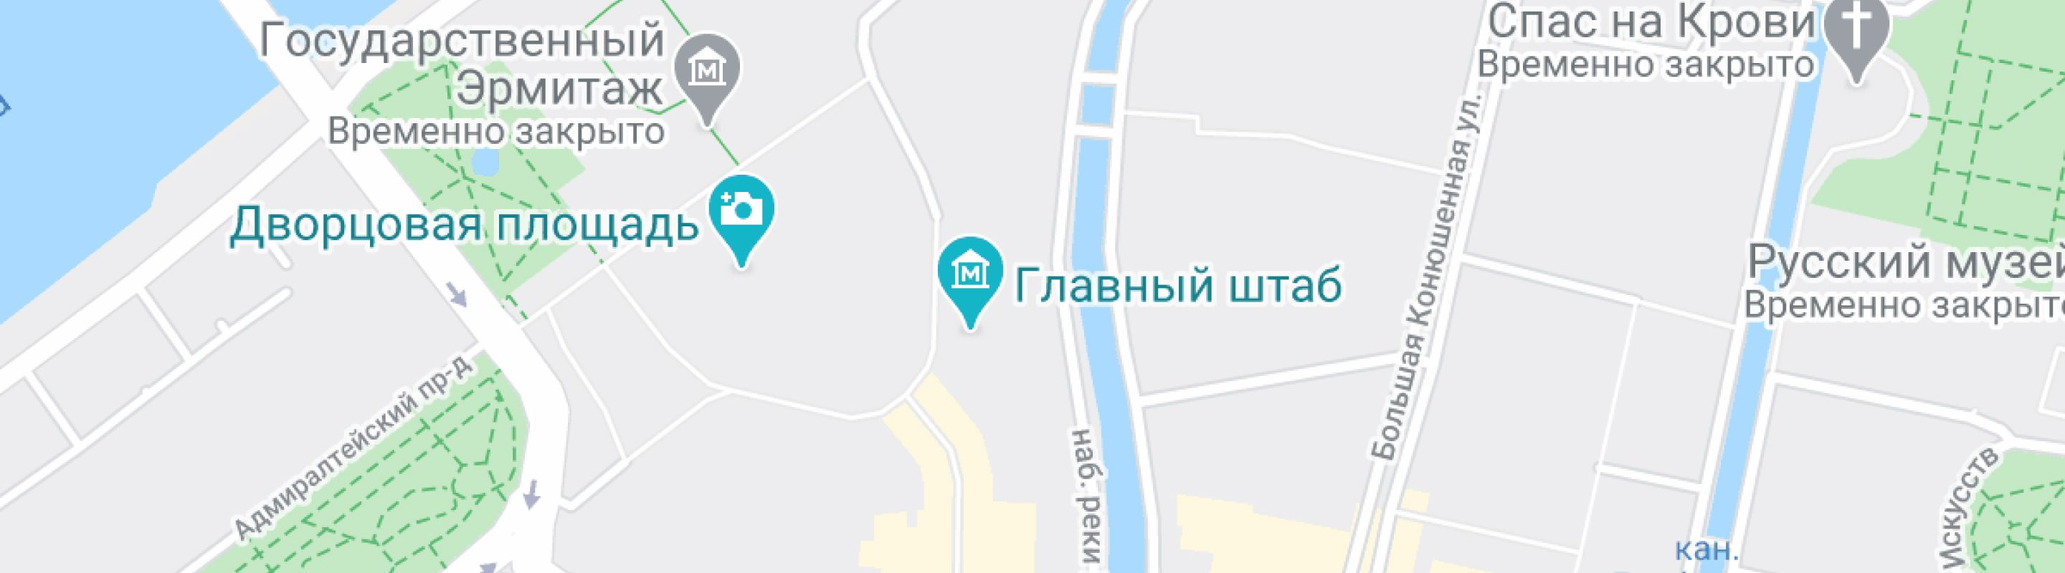
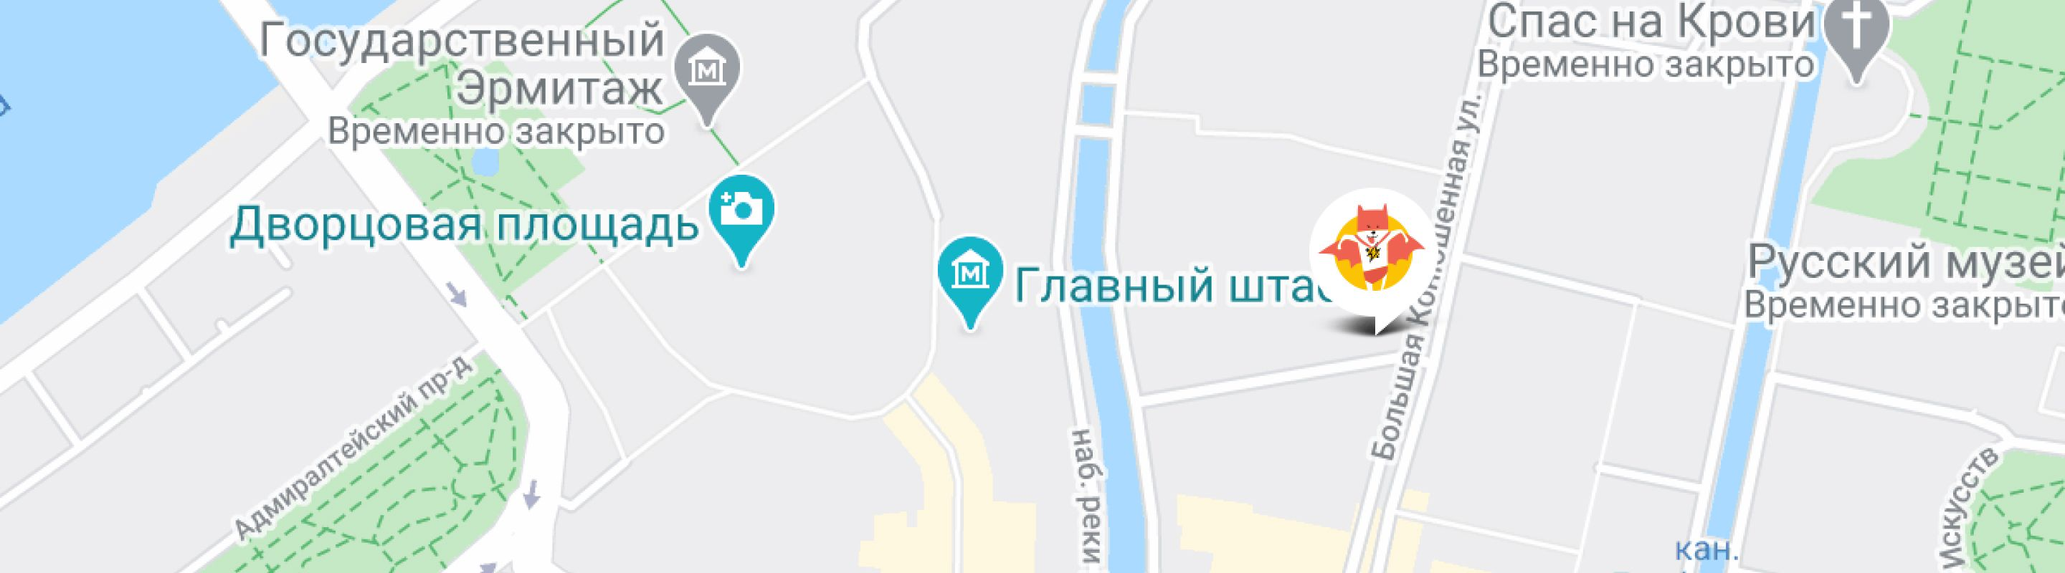
Deploying to gh-pages from @ TatyanaTatarnikova/2493599-cat-energy-32@7d74e67b9639f46f2b732bb1cdabe0afc9696cc2 🚀

Changed region(s): [[0.625, 0.3438, 0.7188, 0.5938]]

diff --git a/6/catalog.html b/6/catalog.html
@@ -1,1 +1,1 @@
-<!DOCTYPE html><html class="page" lang="ru"><head><meta charset="UTF-8"><title>Cat Energy каталог</title><meta name="viewport" content="width=device-width,initial-scale=1"><link rel="icon" href="favicon.ico" sizes="32x32"><link rel="icon" href="favicons/icon.svg" type="image/svg+xml" sizes="32x32"><link rel="apple-touch-icon" href="favicons/180.png" sizes="180x180"><link rel="manifest" href="manifest.webmanifest"><link rel="stylesheet" href="styles/styles.css"><script src="scripts/index.js" defer="defer"></script></head><body class="page__body"><header class="main-header"><a class="main-header__logo logo" href="#"><img class="logo__image trademark" src="#" width="33" height="38" alt="Товарный знак"> <img class="logo__image logotype" src="#" width="101" height="18" alt="Логотип Cat Energy"></a><nav class="main-header__nav main-nav"><button class="main-nav__burger-menu" type="button"><span class="visually-hidden">Открыть меню</span></button><ul class="main-nav__list site-list"><li class="site-list__item"><a class="site-list__link" href="index.html">Главная</a></li><li class="site-list__item"><a class="site-list__link site-list__link--current" href="#">Каталог продукции</a></li><li class="site-list__item"><a class="site-list__link" href="#">Подбор программы</a></li></ul></nav></header><main class="main-container"><h1 class="title">Каталог продукции</h1><section class="catalog"><h2 class="visually-hidden">Список товаров нашего магазина</h2><ul class="catalog__list"><li class="product"><a class="product__link" href="#" tabindex="-1"><picture><source media="(min-width: 1200px)" width="161" height="172" type="image/png" srcset="images/catalog-1-tablet@1x.png, images/catalog-1-tablet@2x.png 2x"><source media="(min-width: 768px)" width="161" height="172" type="image/png" srcset="images/catalog-1-tablet@1x.png, images/catalog-1-tablet@2x.png 2x"><img class="product__image" src="images/catalog-1-mobile@1x.png" srcset="images/catalog-1-mobile@2x.png 2x" width="68" height="86" alt="Изображение товара 1"></picture></a><a class="product__link" href="#"><h2 class="product__title">Cat Energy PRO 500 г</h2></a><dl class="product__about description"><div class="description__row"><dt class="description__type">Масса</dt><dd class="description__value">500 г</dd></div><div class="description__row"><dt class="description__type">Вкус</dt><dd class="description__value">Курица</dd></div><div class="description__row"><dt class="description__type">Цена</dt><dd class="description__value">700 ₽</dd></div></dl><a class="product__link button" href="#">Заказать</a></li><li class="product"><a class="product__link" href="#" tabindex="-1"><picture><source media="(min-width: 1200px)" width="172" height="196" type="image/png" srcset="images/catalog-2-desktop@1x.png, images/catalog-2-desktop@2x.png 2x"><source media="(min-width: 768px)" width="168" height="206" type="image/png" srcset="images/catalog-2-tablet@1x.png, images/catalog-2-tablet@2x.png 2x"><img class="product__image" src="images/catalog-2-mobile@1x.png" srcset="images/catalog-2-mobile@2x.png 2x" width="84" height="100" alt="Изображение товара 2"></picture></a><a class="product__link" href="#"><h2 class="product__title">Cat Energy PRO 1000 г</h2></a><dl class="product__about description"><div class="description__row"><dt class="description__type">Масса</dt><dd class="description__value">1000 г</dd></div><div class="description__row"><dt class="description__type">Вкус</dt><dd class="description__value">Курица</dd></div><div class="description__row"><dt class="description__type">Цена</dt><dd class="description__value">1000 ₽</dd></div></dl><a class="product__link button" href="#">Заказать</a></li><li class="product"><a class="product__link" href="#" tabindex="-1"><picture><source media="(min-width: 1200px)" width="163" height="174" type="image/png" srcset="images/catalog-3-tablet@1x.png, images/catalog-3-tablet@2x.png 2x"><source media="(min-width: 768px)" width="163" height="174" type="image/png" srcset="images/catalog-3-tablet@1x.png, images/catalog-3-tablet@2x.png 2x"><img class="product__image" src="images/catalog-3-mobile@1x.png" srcset="images/catalog-3-mobile@2x.png 2x" width="68" height="78" alt="Изображение товара 3"></picture></a><a class="product__link" href="#"><h2 class="product__title">Cat Energy PRO 500 г</h2></a><dl class="product__about description"><div class="description__row"><dt class="description__type">Масса</dt><dd class="description__value">500 г</dd></div><div class="description__row"><dt class="description__type">Вкус</dt><dd class="description__value">Рыба</dd></div><div class="description__row"><dt class="description__type">Цена</dt><dd class="description__value">700 ₽</dd></div></dl><a class="product__link button" href="#">Заказать</a></li><li class="product"><a class="product__link" href="#" tabindex="-1"><picture><source media="(min-width: 1200px)" width="172" height="196" type="image/png" srcset="images/catalog-4-desktop@1x.png, images/catalog-4-desktop@2x.png 2x"><source media="(min-width: 768px)" width="168" height="200" type="image/png" srcset="images/catalog-4-tablet@1x.png, images/catalog-4-tablet@2x.png 2x"><img class="product__image" src="images/catalog-4-mobile@1x.png" srcset="images/catalog-4-mobile@2x.png 2x" width="84" height="100" alt="Изображение товара 4"></picture></a><a class="product__link" href="#"><h2 class="product__title">Cat Energy PRO 1000 г</h2></a><dl class="product__about description"><div class="description__row"><dt class="description__type">Масса</dt><dd class="description__value">1000 г</dd></div><div class="description__row"><dt class="description__type">Вкус</dt><dd class="description__value">Рыба</dd></div><div class="description__row"><dt class="description__type">Цена</dt><dd class="description__value">1000 ₽</dd></div></dl><a class="product__link button" href="#">Заказать</a></li><li class="product"><a class="product__link" href="#" tabindex="-1"><picture><source media="(min-width: 1200px)" width="161" height="172" type="image/png" srcset="images/catalog-5-tablet@1x.png, images/catalog-5-tablet@2x.png 2x"><source media="(min-width: 768px)" width="161" height="172" type="image/png" srcset="images/catalog-5-tablet@1x.png, images/catalog-5-tablet@2x.png 2x"><img class="product__image" src="images/catalog-5-mobile@1x.png" srcset="images/catalog-5-mobile@2x.png 2x" width="68" height="78" alt="Изображение товара 5"></picture></a><a class="product__link" href="#"><h2 class="product__title">Cat Energy SLIM 500 г</h2></a><dl class="product__about description"><div class="description__row"><dt class="description__type">Масса</dt><dd class="description__value">500 г</dd></div><div class="description__row"><dt class="description__type">Вкус</dt><dd class="description__value">Гречка</dd></div><div class="description__row"><dt class="description__type">Цена</dt><dd class="description__value">400 ₽</dd></div></dl><a class="product__link button" href="#">Заказать</a></li><li class="product"><a class="product__link" href="#" tabindex="-1"><picture><source media="(min-width: 1200px)" width="172" height="196" type="image/png" srcset="images/catalog-6-desktop@1x.png, images/catalog-6-desktop@2x.png 2x"><source media="(min-width: 768px)" width="168" height="200" type="image/png" srcset="images/catalog-6-tablet@1x.png, images/catalog-6-tablet@2x.png 2x"><img class="product__image" src="images/catalog-6-mobile@1x.png" srcset="images/catalog-6-mobile@2x.png 2x" width="84" height="100" alt="Изображение товара 6"></picture></a><a class="product__link" href="#"><h2 class="product__title">Cat Energy SLIM 1000 г</h2></a><dl class="product__about description"><div class="description__row"><dt class="description__type">Масса</dt><dd class="description__value">1000 г</dd></div><div class="description__row"><dt class="description__type">Вкус</dt><dd class="description__value">Гречка</dd></div><div class="description__row"><dt class="description__type">Цена</dt><dd class="description__value">700 ₽</dd></div></dl><a class="product__link button" href="#">Заказать</a></li><li class="product"><a class="product__link" href="#" tabindex="-1"><picture><source media="(min-width: 1200px)" width="163" height="174" type="image/png" srcset="images/catalog-7-tablet@1x.png, images/catalog-7-tablet@2x.png 2x"><source media="(min-width: 768px)" width="163" height="174" type="image/png" srcset="images/catalog-7-tablet@1x.png, images/catalog-7-tablet@2x.png 2x"><img class="product__image" src="images/catalog-7-mobile@1x.png" srcset="images/catalog-7-mobile@2x.png 2x" width="72" height="84" alt="Изображение товара 7"></picture></a><a class="product__link" href="#"><h2 class="product__title">Cat Energy SLIM 500 г</h2></a><dl class="product__about description"><div class="description__row"><dt class="description__type">Масса</dt><dd class="description__value">500 г</dd></div><div class="description__row"><dt class="description__type">Вкус</dt><dd class="description__value">Рис</dd></div><div class="description__row"><dt class="description__type">Цена</dt><dd class="description__value">500 ₽</dd></div></dl><a class="product__link button" href="#">Заказать</a></li><li class="product"><a class="product__link" href="#"><span class="visually-hidden">Показать больше товаров</span>></a><h2 class="product__title">Показать еще 100500 товаров</h2><p class="product__description">На самом деле вкусов гораздо больше!</p><a class="product__button button" href="#">Показать все</a></li></ul></section><section class="additional"><h2 class="additional__title">Дополнительные товары</h2><ul class="additional__list"><li class="more-products"><h3 class="more-products__title">Сахарозаменитель</h3><dl class="more-products_info info"><dt class="info__size">1 упаковка (100 г)</dt><dd class="info__price">200 ₽</dd></dl><a class="more-products__link button" href="#">Заказать</a></li><li class="more-products"><h3 class="more-products__title">Питьевая вода</h3><dl class="more-products_info info"><dt class="info__size">5 литров</dt><dd class="info__price">50 ₽</dd></dl><a class="more-products__link button" href="#">Заказать</a></li><li class="more-products"><h3 class="more-products__title">Молоко</h3><dl class="more-products_info info"><dt class="info__size">1 литр</dt><dd class="info__price">100 ₽</dd></dl><a class="more-products__link button" href="#">Заказать</a></li><li class="more-products"><h3 class="more-products__title">Витамины</h3><dl class="more-products_info info"><dt class="info__size">1 упаковка (30 г)</dt><dd class="info__price">300 ₽</dd></dl><a class="more-products__link button" href="#">Заказать</a></li></ul><aside class="annonce"><h2 class="annonce__title">Закажите все и получите чехол для кота в подарок!</h2></aside></section><section class="promo"><h2 class="promo__title">Акции и новинки</h2><p class="promo__description">Подпишитесь на наши новости и не пропустите ни одного предложения!</p><form class="promo__subscribe subscribe" action="https://echo.htmlacademy.ru/" method="post"><label class="visually-hidden" for="subscribe-form">Введите ваш email</label> <input class="subscribe__field" type="email" name="subscribe-form" id="subscribe-form" placeholder="кuklachev@gmail.com" required> <button class="subscribe__button button" type="submit">Подписаться</button></form></section><section class="contacts"><div class="contacts__card contact-us"><h2 class="contact-us__title">Приглашаем к сотрудничеству дилеров!</h2><address class="contact-us__adress">ул. Большая Конюшенная, д. 19/8 Санкт-Петербург</address></div><img class="contacts__map map" src="#" width="320" height="362" alt="Наша локация на карте"></section></main><footer class="footer"><a class="footer__logo logo" href="#"><img class="logo__image logotype" src="#" width="101" height="18" alt="Логотип Cat Energy"></a><ul class="footer__social social-list"><li class="social-list__item"><a class="social-list__link" href="#"><span class="visually-hidden">VK</span></a></li><li class="social-list__item"><a class="social-list__link" href="#"><span class="visually-hidden">Youtube</span></a></li><li class="social-list__item"><a class="social-list__link" href="#"><span class="visually-hidden">Telegram</span></a></li></ul><a class="footer__author academy-logo" href="https://htmlacademy.ru/intensive/adaptive">HTML Academy</a></footer></body></html>
+<!DOCTYPE html><html class="page" lang="ru"><head><meta charset="UTF-8"><title>Cat Energy каталог</title><meta name="viewport" content="width=device-width,initial-scale=1"><link rel="icon" href="favicon.ico" sizes="32x32"><link rel="icon" href="favicons/icon.svg" type="image/svg+xml" sizes="32x32"><link rel="apple-touch-icon" href="favicons/180.png" sizes="180x180"><link rel="manifest" href="manifest.webmanifest"><link rel="stylesheet" href="styles/styles.css"><script src="scripts/index.js" defer="defer"></script></head><body class="page__body"><header class="main-header"><a class="main-header__logo logo" href="#"><img class="logo__image logo-icon" src="#" width="33" height="38" alt="Товарный знак"> <img class="logo__image logo-text" src="#" width="101" height="18" alt="Логотип Cat Energy"></a><nav class="main-header__nav main-nav"><button class="main-nav__burger-menu" type="button"><span class="visually-hidden">Открыть меню</span></button><ul class="main-nav__list site-list"><li class="site-list__item"><a class="site-list__link" href="index.html">Главная</a></li><li class="site-list__item"><a class="site-list__link site-list__link--current" href="#">Каталог продукции</a></li><li class="site-list__item"><a class="site-list__link" href="#">Подбор программы</a></li></ul></nav></header><main class="main-container"><h1 class="title">Каталог продукции</h1><section class="catalog"><h2 class="visually-hidden">Список товаров нашего магазина</h2><ul class="catalog__list"><li class="product"><a class="product__link" href="#" tabindex="-1"><picture><source media="(min-width: 768px)" width="161" height="172" type="image/png" srcset="images/catalog-1-tablet@1x.png, images/catalog-1-tablet@2x.png 2x"><img class="product__image" src="images/catalog-1-mobile@1x.png" srcset="images/catalog-1-mobile@2x.png 2x" width="68" height="86" alt="Изображение товара 1"></picture></a><a class="product__link" href="#"><h2 class="product__title">Cat Energy PRO 500 г</h2></a><dl class="product__about description"><div class="description__row"><dt class="description__type">Масса</dt><dd class="description__value">500 г</dd></div><div class="description__row"><dt class="description__type">Вкус</dt><dd class="description__value">Курица</dd></div><div class="description__row"><dt class="description__type">Цена</dt><dd class="description__value">700 ₽</dd></div></dl><a class="product__link button" href="#">Заказать</a></li><li class="product"><a class="product__link" href="#" tabindex="-1"><picture><source media="(min-width: 1440px)" width="172" height="196" type="image/png" srcset="images/catalog-2-desktop@1x.png, images/catalog-2-desktop@2x.png 2x"><source media="(min-width: 768px)" width="168" height="206" type="image/png" srcset="images/catalog-2-tablet@1x.png, images/catalog-2-tablet@2x.png 2x"><img class="product__image" src="images/catalog-2-mobile@1x.png" srcset="images/catalog-2-mobile@2x.png 2x" width="84" height="100" alt="Изображение товара 2"></picture></a><a class="product__link" href="#"><h2 class="product__title">Cat Energy PRO 1000 г</h2></a><dl class="product__about description"><div class="description__row"><dt class="description__type">Масса</dt><dd class="description__value">1000 г</dd></div><div class="description__row"><dt class="description__type">Вкус</dt><dd class="description__value">Курица</dd></div><div class="description__row"><dt class="description__type">Цена</dt><dd class="description__value">1000 ₽</dd></div></dl><a class="product__link button" href="#">Заказать</a></li><li class="product"><a class="product__link" href="#" tabindex="-1"><picture><source media="(min-width: 768px)" width="163" height="174" type="image/png" srcset="images/catalog-3-tablet@1x.png, images/catalog-3-tablet@2x.png 2x"><img class="product__image" src="images/catalog-3-mobile@1x.png" srcset="images/catalog-3-mobile@2x.png 2x" width="68" height="78" alt="Изображение товара 3"></picture></a><a class="product__link" href="#"><h2 class="product__title">Cat Energy PRO 500 г</h2></a><dl class="product__about description"><div class="description__row"><dt class="description__type">Масса</dt><dd class="description__value">500 г</dd></div><div class="description__row"><dt class="description__type">Вкус</dt><dd class="description__value">Рыба</dd></div><div class="description__row"><dt class="description__type">Цена</dt><dd class="description__value">700 ₽</dd></div></dl><a class="product__link button" href="#">Заказать</a></li><li class="product"><a class="product__link" href="#" tabindex="-1"><picture><source media="(min-width: 1440px)" width="172" height="196" type="image/png" srcset="images/catalog-4-desktop@1x.png, images/catalog-4-desktop@2x.png 2x"><source media="(min-width: 768px)" width="168" height="200" type="image/png" srcset="images/catalog-4-tablet@1x.png, images/catalog-4-tablet@2x.png 2x"><img class="product__image" src="images/catalog-4-mobile@1x.png" srcset="images/catalog-4-mobile@2x.png 2x" width="84" height="100" alt="Изображение товара 4"></picture></a><a class="product__link" href="#"><h2 class="product__title">Cat Energy PRO 1000 г</h2></a><dl class="product__about description"><div class="description__row"><dt class="description__type">Масса</dt><dd class="description__value">1000 г</dd></div><div class="description__row"><dt class="description__type">Вкус</dt><dd class="description__value">Рыба</dd></div><div class="description__row"><dt class="description__type">Цена</dt><dd class="description__value">1000 ₽</dd></div></dl><a class="product__link button" href="#">Заказать</a></li><li class="product"><a class="product__link" href="#" tabindex="-1"><picture><source media="(min-width: 768px)" width="161" height="172" type="image/png" srcset="images/catalog-5-tablet@1x.png, images/catalog-5-tablet@2x.png 2x"><img class="product__image" src="images/catalog-5-mobile@1x.png" srcset="images/catalog-5-mobile@2x.png 2x" width="68" height="78" alt="Изображение товара 5"></picture></a><a class="product__link" href="#"><h2 class="product__title">Cat Energy SLIM 500 г</h2></a><dl class="product__about description"><div class="description__row"><dt class="description__type">Масса</dt><dd class="description__value">500 г</dd></div><div class="description__row"><dt class="description__type">Вкус</dt><dd class="description__value">Гречка</dd></div><div class="description__row"><dt class="description__type">Цена</dt><dd class="description__value">400 ₽</dd></div></dl><a class="product__link button" href="#">Заказать</a></li><li class="product"><a class="product__link" href="#" tabindex="-1"><picture><source media="(min-width: 1440px)" width="172" height="196" type="image/png" srcset="images/catalog-6-desktop@1x.png, images/catalog-6-desktop@2x.png 2x"><source media="(min-width: 768px)" width="168" height="200" type="image/png" srcset="images/catalog-6-tablet@1x.png, images/catalog-6-tablet@2x.png 2x"><img class="product__image" src="images/catalog-6-mobile@1x.png" srcset="images/catalog-6-mobile@2x.png 2x" width="84" height="100" alt="Изображение товара 6"></picture></a><a class="product__link" href="#"><h2 class="product__title">Cat Energy SLIM 1000 г</h2></a><dl class="product__about description"><div class="description__row"><dt class="description__type">Масса</dt><dd class="description__value">1000 г</dd></div><div class="description__row"><dt class="description__type">Вкус</dt><dd class="description__value">Гречка</dd></div><div class="description__row"><dt class="description__type">Цена</dt><dd class="description__value">700 ₽</dd></div></dl><a class="product__link button" href="#">Заказать</a></li><li class="product"><a class="product__link" href="#" tabindex="-1"><picture><source media="(min-width: 768px)" width="163" height="174" type="image/png" srcset="images/catalog-7-tablet@1x.png, images/catalog-7-tablet@2x.png 2x"><img class="product__image" src="images/catalog-7-mobile@1x.png" srcset="images/catalog-7-mobile@2x.png 2x" width="72" height="84" alt="Изображение товара 7"></picture></a><a class="product__link" href="#"><h2 class="product__title">Cat Energy SLIM 500 г</h2></a><dl class="product__about description"><div class="description__row"><dt class="description__type">Масса</dt><dd class="description__value">500 г</dd></div><div class="description__row"><dt class="description__type">Вкус</dt><dd class="description__value">Рис</dd></div><div class="description__row"><dt class="description__type">Цена</dt><dd class="description__value">500 ₽</dd></div></dl><a class="product__link button" href="#">Заказать</a></li><li class="product"><a class="product__link" href="#"><span class="visually-hidden">Показать больше товаров</span>></a><h2 class="product__title">Показать еще 100500 товаров</h2><p class="product__description">На самом деле вкусов гораздо больше!</p><a class="product__button button" href="#">Показать все</a></li></ul></section><section class="additional"><h2 class="additional__title">Дополнительные товары</h2><ul class="additional__list"><li class="more-products"><h3 class="more-products__title">Сахарозаменитель</h3><dl class="more-products_info info"><dt class="info__size">1 упаковка (100 г)</dt><dd class="info__price">200 ₽</dd></dl><a class="more-products__link button" href="#">Заказать</a></li><li class="more-products"><h3 class="more-products__title">Питьевая вода</h3><dl class="more-products_info info"><dt class="info__size">5 литров</dt><dd class="info__price">50 ₽</dd></dl><a class="more-products__link button" href="#">Заказать</a></li><li class="more-products"><h3 class="more-products__title">Молоко</h3><dl class="more-products_info info"><dt class="info__size">1 литр</dt><dd class="info__price">100 ₽</dd></dl><a class="more-products__link button" href="#">Заказать</a></li><li class="more-products"><h3 class="more-products__title">Витамины</h3><dl class="more-products_info info"><dt class="info__size">1 упаковка (30 г)</dt><dd class="info__price">300 ₽</dd></dl><a class="more-products__link button" href="#">Заказать</a></li></ul><aside class="annonce"><h2 class="annonce__title">Закажите все и получите чехол для кота в подарок!</h2></aside></section><section class="promo"><h2 class="promo__title">Акции и новинки</h2><p class="promo__description">Подпишитесь на наши новости и не пропустите ни одного предложения!</p><form class="promo__subscribe subscribe" action="https://echo.htmlacademy.ru/" method="post"><label class="visually-hidden" for="subscribe-form">Введите ваш email</label> <input class="subscribe__field" type="email" name="subscribe-form" id="subscribe-form" placeholder="кuklachev@gmail.com" required> <button class="subscribe__button button" type="submit">Подписаться</button></form></section><section class="contacts"><div class="contacts__card contact-us"><h2 class="contact-us__title">Приглашаем к сотрудничеству дилеров!</h2><address class="contact-us__adress">ул. Большая Конюшенная, д. 19/8 Санкт-Петербург</address></div><img class="contacts__map map" src="#" width="320" height="362" alt="Наша локация на карте"></section></main><footer class="footer"><a class="footer__logo logo" href="#"><img class="logo__image logo-text" src="#" width="101" height="18" alt="Логотип Cat Energy"></a><ul class="footer__social social-list"><li class="social-list__item"><a class="social-list__link" href="#"><span class="visually-hidden">VK</span></a></li><li class="social-list__item"><a class="social-list__link" href="#"><span class="visually-hidden">Youtube</span></a></li><li class="social-list__item"><a class="social-list__link" href="#"><span class="visually-hidden">Telegram</span></a></li></ul><a class="footer__author academy-logo" href="https://htmlacademy.ru/intensive/adaptive">HTML Academy</a></footer></body></html>

diff --git a/6/index.html b/6/index.html
@@ -1,1 +1,1 @@
-<!DOCTYPE html><html class="page" lang="ru"><head><meta charset="UTF-8"><title>Cat Energy</title><meta name="viewport" content="width=device-width,initial-scale=1"><link rel="icon" href="favicon.ico" sizes="32x32"><link rel="icon" href="favicons/icon.svg" type="image/svg+xml" sizes="32x32"><link rel="apple-touch-icon" href="favicons/180.png" sizes="180x180"><link rel="manifest" href="manifest.webmanifest"><link rel="stylesheet" href="styles/styles.css"><script src="scripts/index.js" defer="defer"></script></head><body class="page__body"><header class="main-header"><a class="main-header__logo logo" href="#"><img class="logo__image trademark" src="#" width="33" height="38" alt="Товарный знак"> <img class="logo__image logotype" src="#" width="101" height="18" alt="Логотип Cat Energy"></a><nav class="main-header__nav main-nav"><button class="main-nav__burger-menu" type="button"><span class="visually-hidden">Открыть меню</span></button><ul class="main-nav__list site-list"><li class="site-list__item"><a class="site-list__link site-list__link--current" href="#">Главная</a></li><li class="site-list__item"><a class="site-list__link" href="catalog.html">Каталог продукции</a></li><li class="site-list__item"><a class="site-list__link" href="#">Подбор программы</a></li></ul></nav></header><main class="main-container"><h1 class="visually-hidden">Онлайн-магазин кормов для котов Cat Energy</h1><section class="hero"><h2 class="hero__title title">Функциональное питание для котов</h2><p class="hero__slogan">Занялся собой? Займись котом!</p><a class="hero__link-img" href="#"><picture><source media="(min-width: 1440px)" width="552" height="499" type="image/png" srcset="images/main-product-desktop@1x.png, images/main-product-desktop@2x.png 2x"><source media="(min-width: 768px)" width="709" height="609" type="image/png" srcset="images/main-product-tablet@1x.png, images/main-product-tablet@2x.png 2x"><img class="hero__image" src="images/main-product-mobile@1x.png" srcset="images/main-product-mobile@2x.png 2x" width="280" height="270" alt="Фото упаковки корма Cat Energy со вкусом курицы 500г"></picture></a><a class="hero__link button" href="#">Подобрать программу</a></section><section class="food-plan"><h2 class="visually-hidden">Программы питания</h2><ul class="food-plan__list"><li class="food-plan__item food-plan__item--slim"><h3 class="food-plan__title">Похудение</h3><p class="food-plan__description">Ваш кот весит больше собаки и почти утратил способность лазить по деревьям?Пора на диету! Cat Energy Slim поможет вашему питомцу сбросить лишний вес.</p><a href="#">Каталог slim</a></li><li class="food-plan__item food-plan__item--pro"><h3 class="food-plan__title">Набор массы</h3><p class="food-plan__description">Заработать авторитет среди дворовых котов и даже собак? Серия Cat Energy Pro поможет вашему коту нарастить необходимые мышцы!</p><a href="#">Каталог pro</a></li></ul></section><section class="working-principles"><h2 class="working-principles__title title">Как это работает</h2><ul class="working-principles__list"><li class="working-principles__item"><p class="working-principles__description">Функциональное питание содержит только полезные питательные вещества.</p></li><li class="working-principles__item"><p class="working-principles__description">Выпускается в виде порошка, который нужно лишь залить кипятком и готово.</p></li><li class="working-principles__item"><p class="working-principles__description">Замените один-два приема обычной еды на наше функциональное питание.</p></li><li class="working-principles__item"><p class="working-principles__description">Уже через месяц наслаждайтесь изменениями к лучшему вашего питомца!</p></li></ul></section><section class="real-case"><h2 class="real-case__title title">Живой пример</h2><p class="real-case__description">Борис сбросил 5 кг за 2 месяца, просто заменив свой обычный корм на Cat Energy Slim. Отличный результат без изнуряющих тренировок! При этом он не менял своих привычек и по-прежнему спит по 16 часов в день.</p><dl class="real-case__stats stats"><div class="stats__item"><dt class="stats__number">5 кг</dt><dd class="stats__description">снижение веса</dd></div><div class="stats__item"><dt class="stats__number">60 дней</dt><dd class="stats__description">затрачено времени</dd></div></dl><p class="real-case__cost">Затраты на питание: 15 000 руб.</p><div class="real-case__slider slider"><div class="slider__item slider__item--before"><picture><source media="(min-width: 1200px)" width="560" height="512" type="image/png" srcset="images/cat-before-tablet@1x.png, images/cat-before-tablet@2x.png 2x"><source media="(min-width: 768px)" width="560" height="512" type="image/png" srcset="images/cat-before-tablet@1x.png, images/cat-before-tablet@2x.png 2x"><img class="slider-image" src="images/сat-before-mobile@1x.png" srcset="images/сat-before-mobile@2x.png 2x" width="280" height="256" alt="Фото упитанного кота до потери веса"></picture></div><div class="slider__item slider__item--after"><picture><source media="(min-width: 1200px)" width="560" height="512" type="image/jpeg" srcset="images/cat-after-tablet@1x.png, images/cat-after-tablet@2x.png 2x"><source media="(min-width: 768px)" width="560" height="512" type="image/jpeg" srcset="images/cat-after-tablet@1x.png, images/cat-after-tablet@2x.png 2x"><img class="slider-image" src="images/сat-after-mobile@1x.png" srcset="images/сat-after-mobile@2x.png 2x" width="280" height="256" alt="Фото после"></picture></div></div></section><section class="contacts"><div class="contacts__card contact-us"><h2 class="contact-us__title">Приглашаем к сотрудничеству дилеров!</h2><address class="contact-us__adress">ул. Большая Конюшенная, д. 19/8 Санкт-Петербург</address></div><img class="contacts__map map" src="#" width="320" height="362" alt="Наша локация на карте"></section></main><footer class="footer"><a class="footer__logo logo" href="#"><img class="logo__image logotype" src="#" width="101" height="18" alt="Логотип Cat Energy"></a><ul class="footer__social social-list"><li class="social-list__item"><a class="social-list__link" href="#"><span class="visually-hidden">VK</span></a></li><li class="social-list__item"><a class="social-list__link" href="#"><span class="visually-hidden">Youtube</span></a></li><li class="social-list__item"><a class="social-list__link" href="#"><span class="visually-hidden">Telegram</span></a></li></ul><a class="footer__author academy-logo" href="https://htmlacademy.ru/intensive/adaptive">HTML Academy</a></footer></body></html>
+<!DOCTYPE html><html class="page" lang="ru"><head><meta charset="UTF-8"><title>Cat Energy</title><meta name="viewport" content="width=device-width,initial-scale=1"><link rel="icon" href="favicon.ico" sizes="32x32"><link rel="icon" href="favicons/icon.svg" type="image/svg+xml" sizes="32x32"><link rel="apple-touch-icon" href="favicons/180.png" sizes="180x180"><link rel="manifest" href="manifest.webmanifest"><link rel="stylesheet" href="styles/styles.css"><script src="scripts/index.js" defer="defer"></script></head><body class="page__body"><header class="main-header"><a class="main-header__logo logo" href="#"><img class="logo__image logo-icon" src="#" width="33" height="38" alt="Товарный знак"> <img class="logo__image logo-text" src="#" width="101" height="18" alt="Логотип Cat Energy"></a><nav class="main-header__nav main-nav"><button class="main-nav__burger-menu" type="button"><span class="visually-hidden">Открыть меню</span></button><ul class="main-nav__list site-list"><li class="site-list__item"><a class="site-list__link site-list__link--current" href="#">Главная</a></li><li class="site-list__item"><a class="site-list__link" href="catalog.html">Каталог продукции</a></li><li class="site-list__item"><a class="site-list__link" href="#">Подбор программы</a></li></ul></nav></header><main class="main-container"><h1 class="visually-hidden">Онлайн-магазин кормов для котов Cat Energy</h1><section class="hero"><h2 class="hero__title title">Функциональное питание для котов</h2><p class="hero__slogan">Занялся собой? Займись котом!</p><a class="hero__link-img" href="#"><picture><source media="(min-width: 1440px)" width="552" height="499" type="image/png" srcset="images/main-product-desktop@1x.png, images/main-product-desktop@2x.png 2x"><source media="(min-width: 768px)" width="709" height="609" type="image/png" srcset="images/main-product-tablet@1x.png, images/main-product-tablet@2x.png 2x"><img class="hero__image" src="images/main-product-mobile@1x.png" srcset="images/main-product-mobile@2x.png 2x" width="280" height="270" alt="Фото упаковки корма Cat Energy со вкусом курицы 500г"></picture></a><a class="hero__link button" href="#">Подобрать программу</a></section><section class="food-plan"><h2 class="visually-hidden">Программы питания</h2><ul class="food-plan__list"><li class="food-plan__item food-plan__item--slim"><h3 class="food-plan__title">Похудение</h3><p class="food-plan__description">Ваш кот весит больше собаки и почти утратил способность лазить по деревьям?Пора на диету! Cat Energy Slim поможет вашему питомцу сбросить лишний вес.</p><a href="#">Каталог slim</a></li><li class="food-plan__item food-plan__item--pro"><h3 class="food-plan__title">Набор массы</h3><p class="food-plan__description">Заработать авторитет среди дворовых котов и даже собак? Серия Cat Energy Pro поможет вашему коту нарастить необходимые мышцы!</p><a href="#">Каталог pro</a></li></ul></section><section class="working-principles"><h2 class="working-principles__title title">Как это работает</h2><ul class="working-principles__list"><li class="working-principles__item"><p class="working-principles__description">Функциональное питание содержит только полезные питательные вещества.</p></li><li class="working-principles__item"><p class="working-principles__description">Выпускается в виде порошка, который нужно лишь залить кипятком и готово.</p></li><li class="working-principles__item"><p class="working-principles__description">Замените один-два приема обычной еды на наше функциональное питание.</p></li><li class="working-principles__item"><p class="working-principles__description">Уже через месяц наслаждайтесь изменениями к лучшему вашего питомца!</p></li></ul></section><section class="real-case"><h2 class="real-case__title title">Живой пример</h2><p class="real-case__description">Борис сбросил 5 кг за 2 месяца, просто заменив свой обычный корм на Cat Energy Slim. Отличный результат без изнуряющих тренировок! При этом он не менял своих привычек и по-прежнему спит по 16 часов в день.</p><dl class="real-case__stats stats"><div class="stats__item"><dt class="stats__number">5 кг</dt><dd class="stats__description">снижение веса</dd></div><div class="stats__item"><dt class="stats__number">60 дней</dt><dd class="stats__description">затрачено времени</dd></div></dl><p class="real-case__cost">Затраты на питание: 15 000 руб.</p><div class="real-case__slider slider"><div class="slider__item slider__item--before"><picture><source width="560" height="512" type="image/png" media="(min-width: 768px)" srcset="images/cat-before-tablet@1x.png, images/cat-before-tablet@2x.png 2x"><img class="slider-image" src="images/cat-before-mobile@1x.png" srcset="images/cat-before-mobile@2x.png 2x" width="280" height="256" alt="Фото упитанного кота до потери веса"></picture></div><div class="slider__item slider__item--after"><picture><source media="(min-width: 768px)" width="560" height="512" type="image/jpeg" srcset="images/cat-after-tablet@1x.png, images/cat-after-tablet@2x.png 2x"><img class="slider-image" src="images/cat-after-mobile@1x.png" srcset="images/сat-after-mobile@2x.png 2x" width="280" height="256" alt="Фото после"></picture></div></div></section><section class="contacts"><div class="contacts__card contact-us"><h2 class="contact-us__title">Приглашаем к сотрудничеству дилеров!</h2><address class="contact-us__adress">ул. Большая Конюшенная, д. 19/8 Санкт-Петербург</address></div><div class="contacts__map map"><picture><source media="(min-width: 1440px)" width="1440" height="400" type="image/jpeg" srcset="images/map-desktop@1x.jpg, images/map-desktop@2x.jpg 2x"><source media="(min-width: 768px)" width="768" height="400" type="image/jpeg" srcset="images/map-tablet@1x.jpg, images/map-tablet@2x.jpg 2x"><img class="map__image" src="images/map-mobile@1x.jpg" srcset="images/map-mobile@2x.jpg 2x" width="320" height="362" alt="Наша локация на карте"></picture></div></section></main><footer class="footer"><a class="footer__logo logo" href="#"><img class="logo__image logo-text" src="#" width="101" height="18" alt="Логотип Cat Energy"></a><ul class="footer__social social-list"><li class="social-list__item"><a class="social-list__link" href="#"><span class="visually-hidden">VK</span></a></li><li class="social-list__item"><a class="social-list__link" href="#"><span class="visually-hidden">Youtube</span></a></li><li class="social-list__item"><a class="social-list__link" href="#"><span class="visually-hidden">Telegram</span></a></li></ul><a class="footer__author academy-logo" href="https://htmlacademy.ru/intensive/adaptive">HTML Academy</a></footer></body></html>
